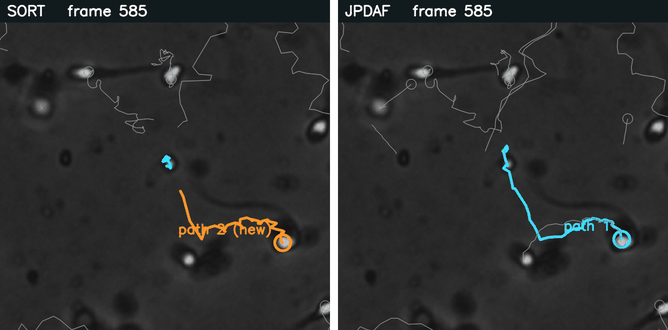
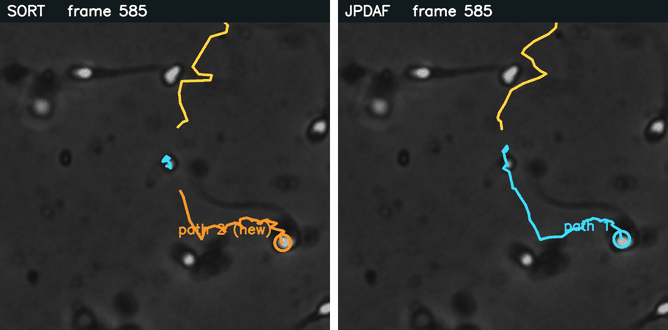
Follow-up deck: break_2 animation now also shows the cell it touches

diff --git a/scripts/build_followup_deck.js b/scripts/build_followup_deck.js
@@ -288,17 +288,17 @@ function scoreSlide(data, kicker, title, footnote, notes) {
   framed(pres, s, R("13c_break_user.gif"), (W - 8.6) / 2, 1.8, 8.6, 4.4);
   caption(s, [
     { text: "Each colour is one path: the software's idea of \"the same cell\". ", options: { bold: true } },
-    { text: "A cell swims down past another one. ", options: {} },
+    { text: "The blue cell swims down and touches the yellow one. ", options: {} },
     { text: "SORT", options: { bold: true } },
-    { text: ` loses it at frame ${brk.f0}: path 1 stops, and at frame ${brk.f1} a new path 2 starts on the same cell. One cell, two paths. `, options: {} },
+    { text: ` loses it at the touch (frame ${brk.f0}): path 1 stops, and at frame ${brk.f1} a new path 2 starts on the same cell. One cell, two paths. `, options: {} },
     { text: "JPDAF", options: { bold: true } },
     { text: " keeps path 1 all the way." },
   ], 6.35, 0.9);
   s.addNotes(
     "This is one cell from the video, zoomed in, with the same frames on both sides, slowed down. " +
     "Each colour is one ID. An ID is the name the software gives a cell so it can say 'this is still the same cell' from one frame to the next. " +
-    "The cell swims down and passes close to another cell. " +
-    "On the left, SORT: at the moment they pass, it loses the cell. The red X marks where its track stops. A few frames later it picks the cell up again, but as a new ID, so the path is cut in two. " +
+    "The blue cell swims down and touches the yellow cell. " +
+    "On the left, SORT: at the moment they touch, it loses the blue cell. A few frames later it picks it up again, but as a new path, path 2, so the path is cut in two. " +
     "On the right, JPDAF: one ID, one path, all the way through. " +
     "Both trackers ran on the hand-marked boxes, so the only difference here is the tracking itself."
   );
